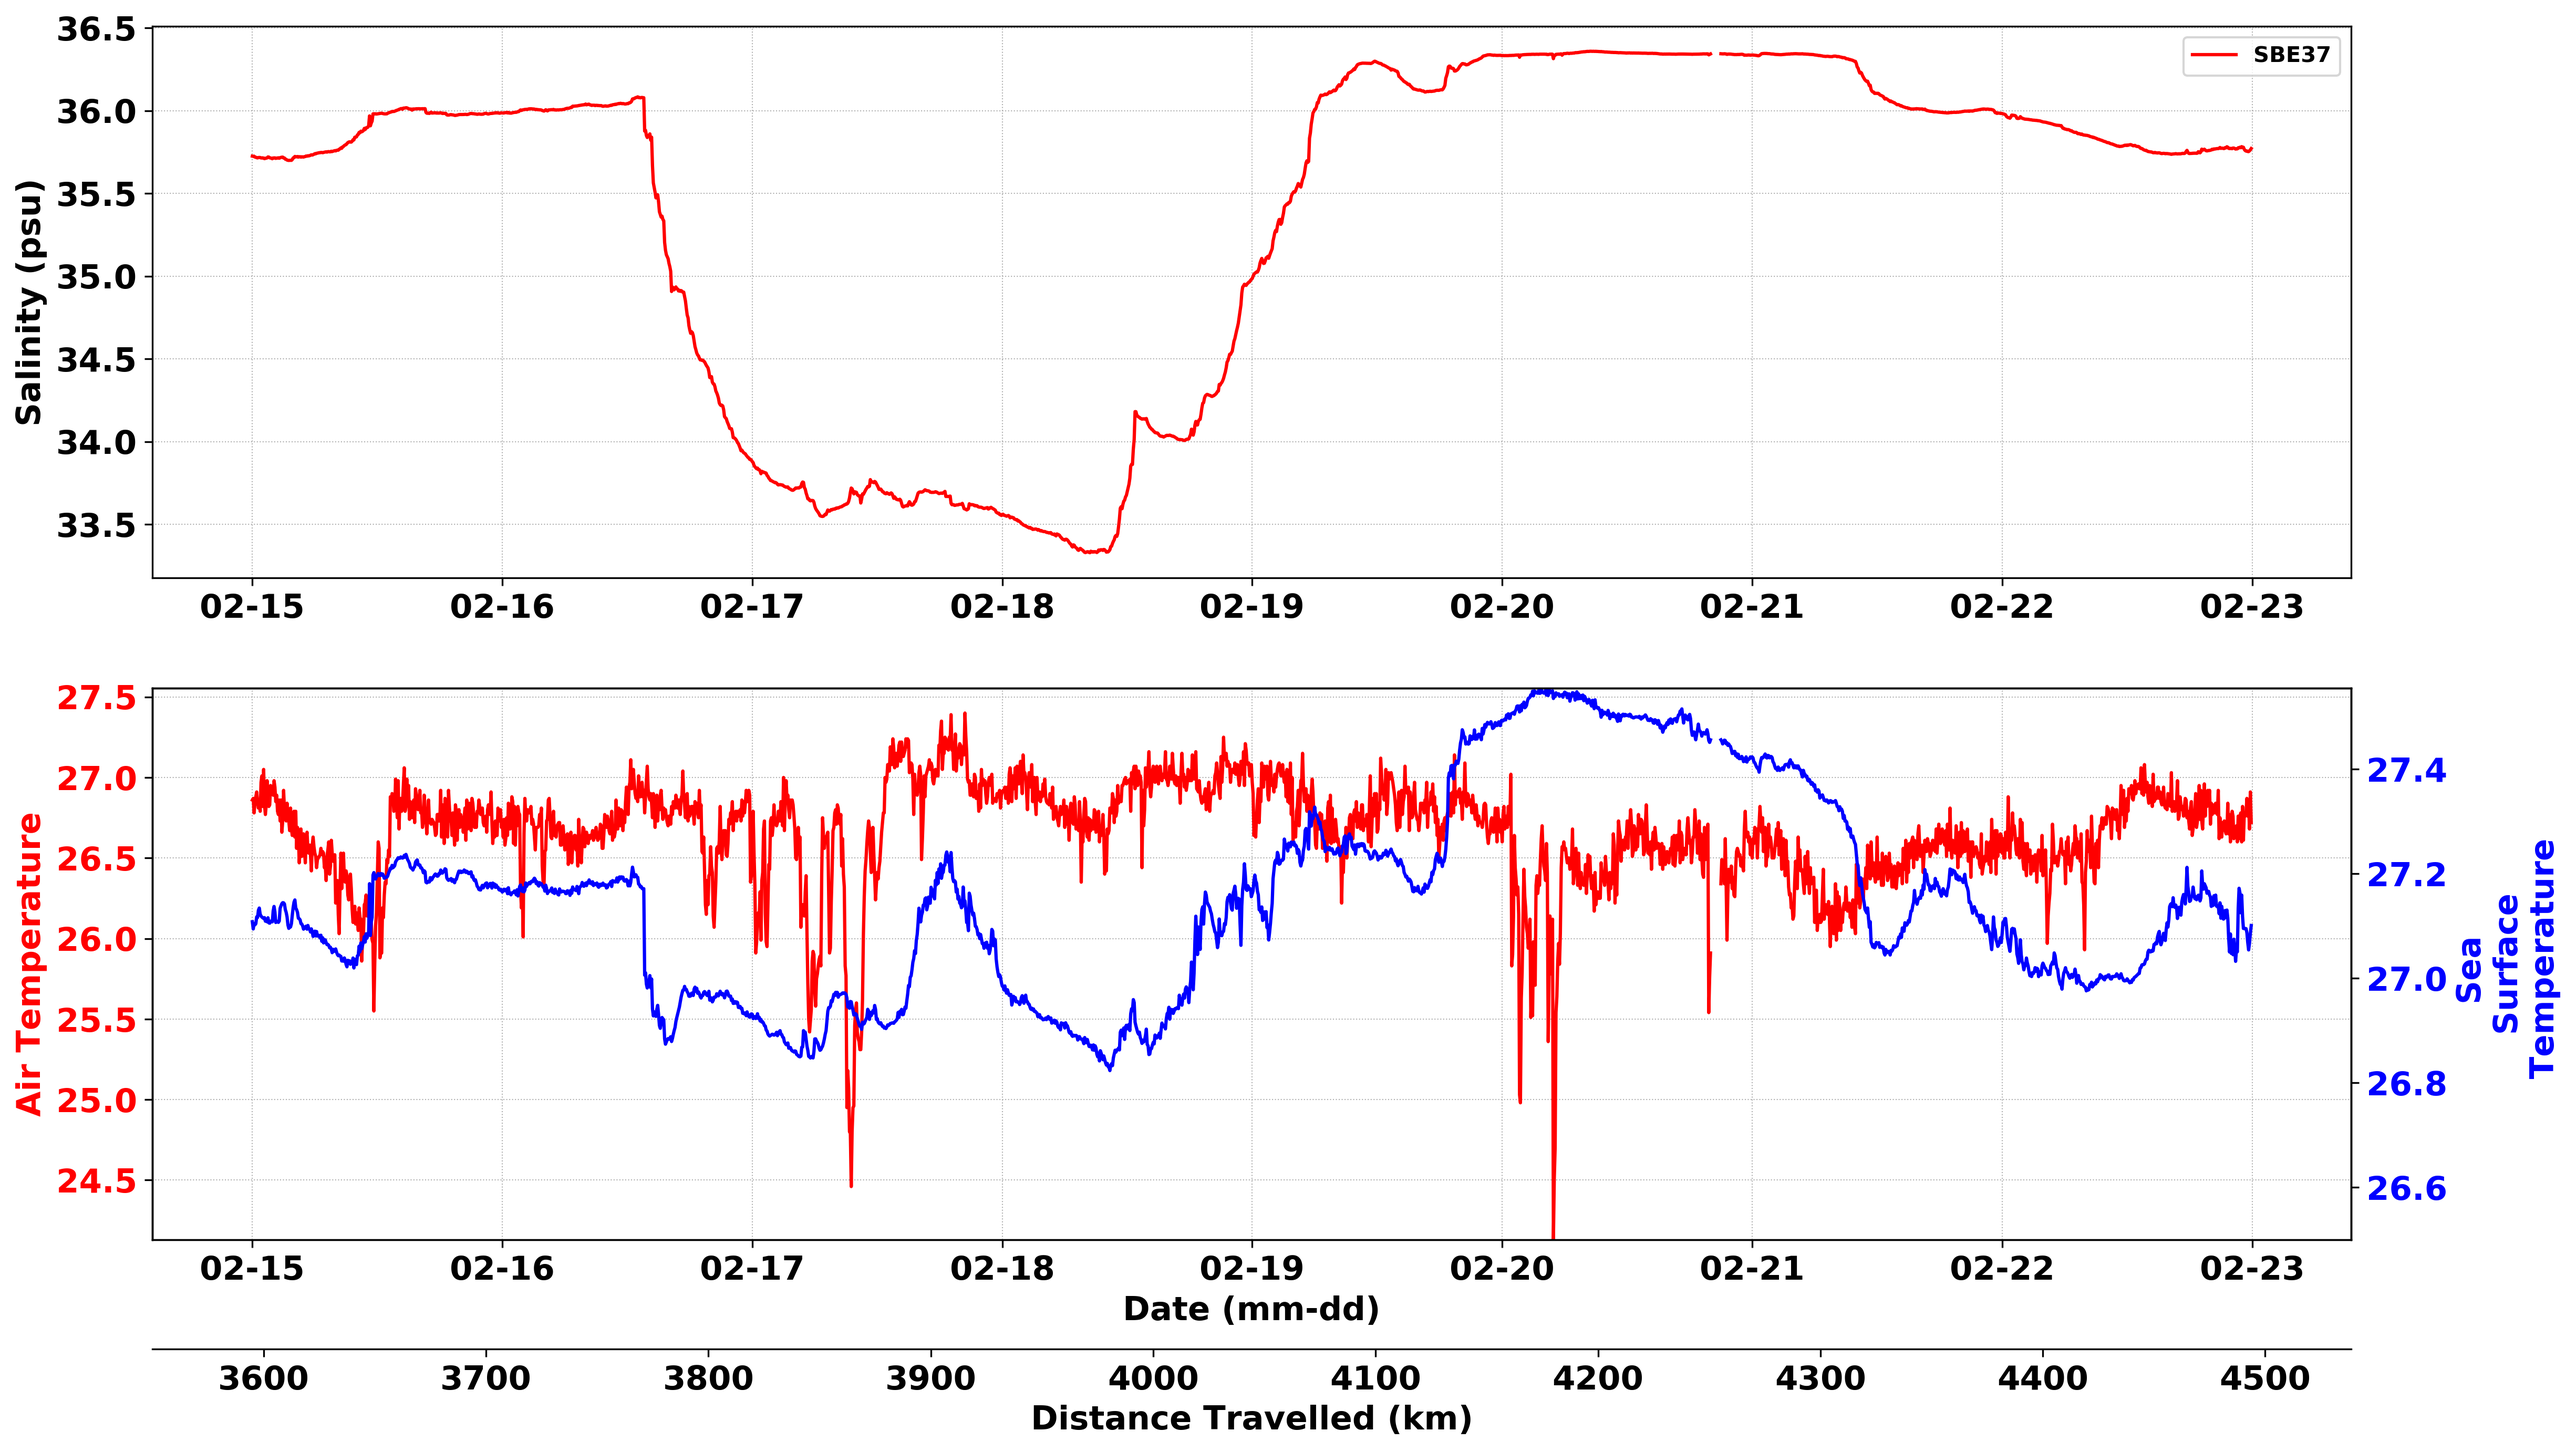
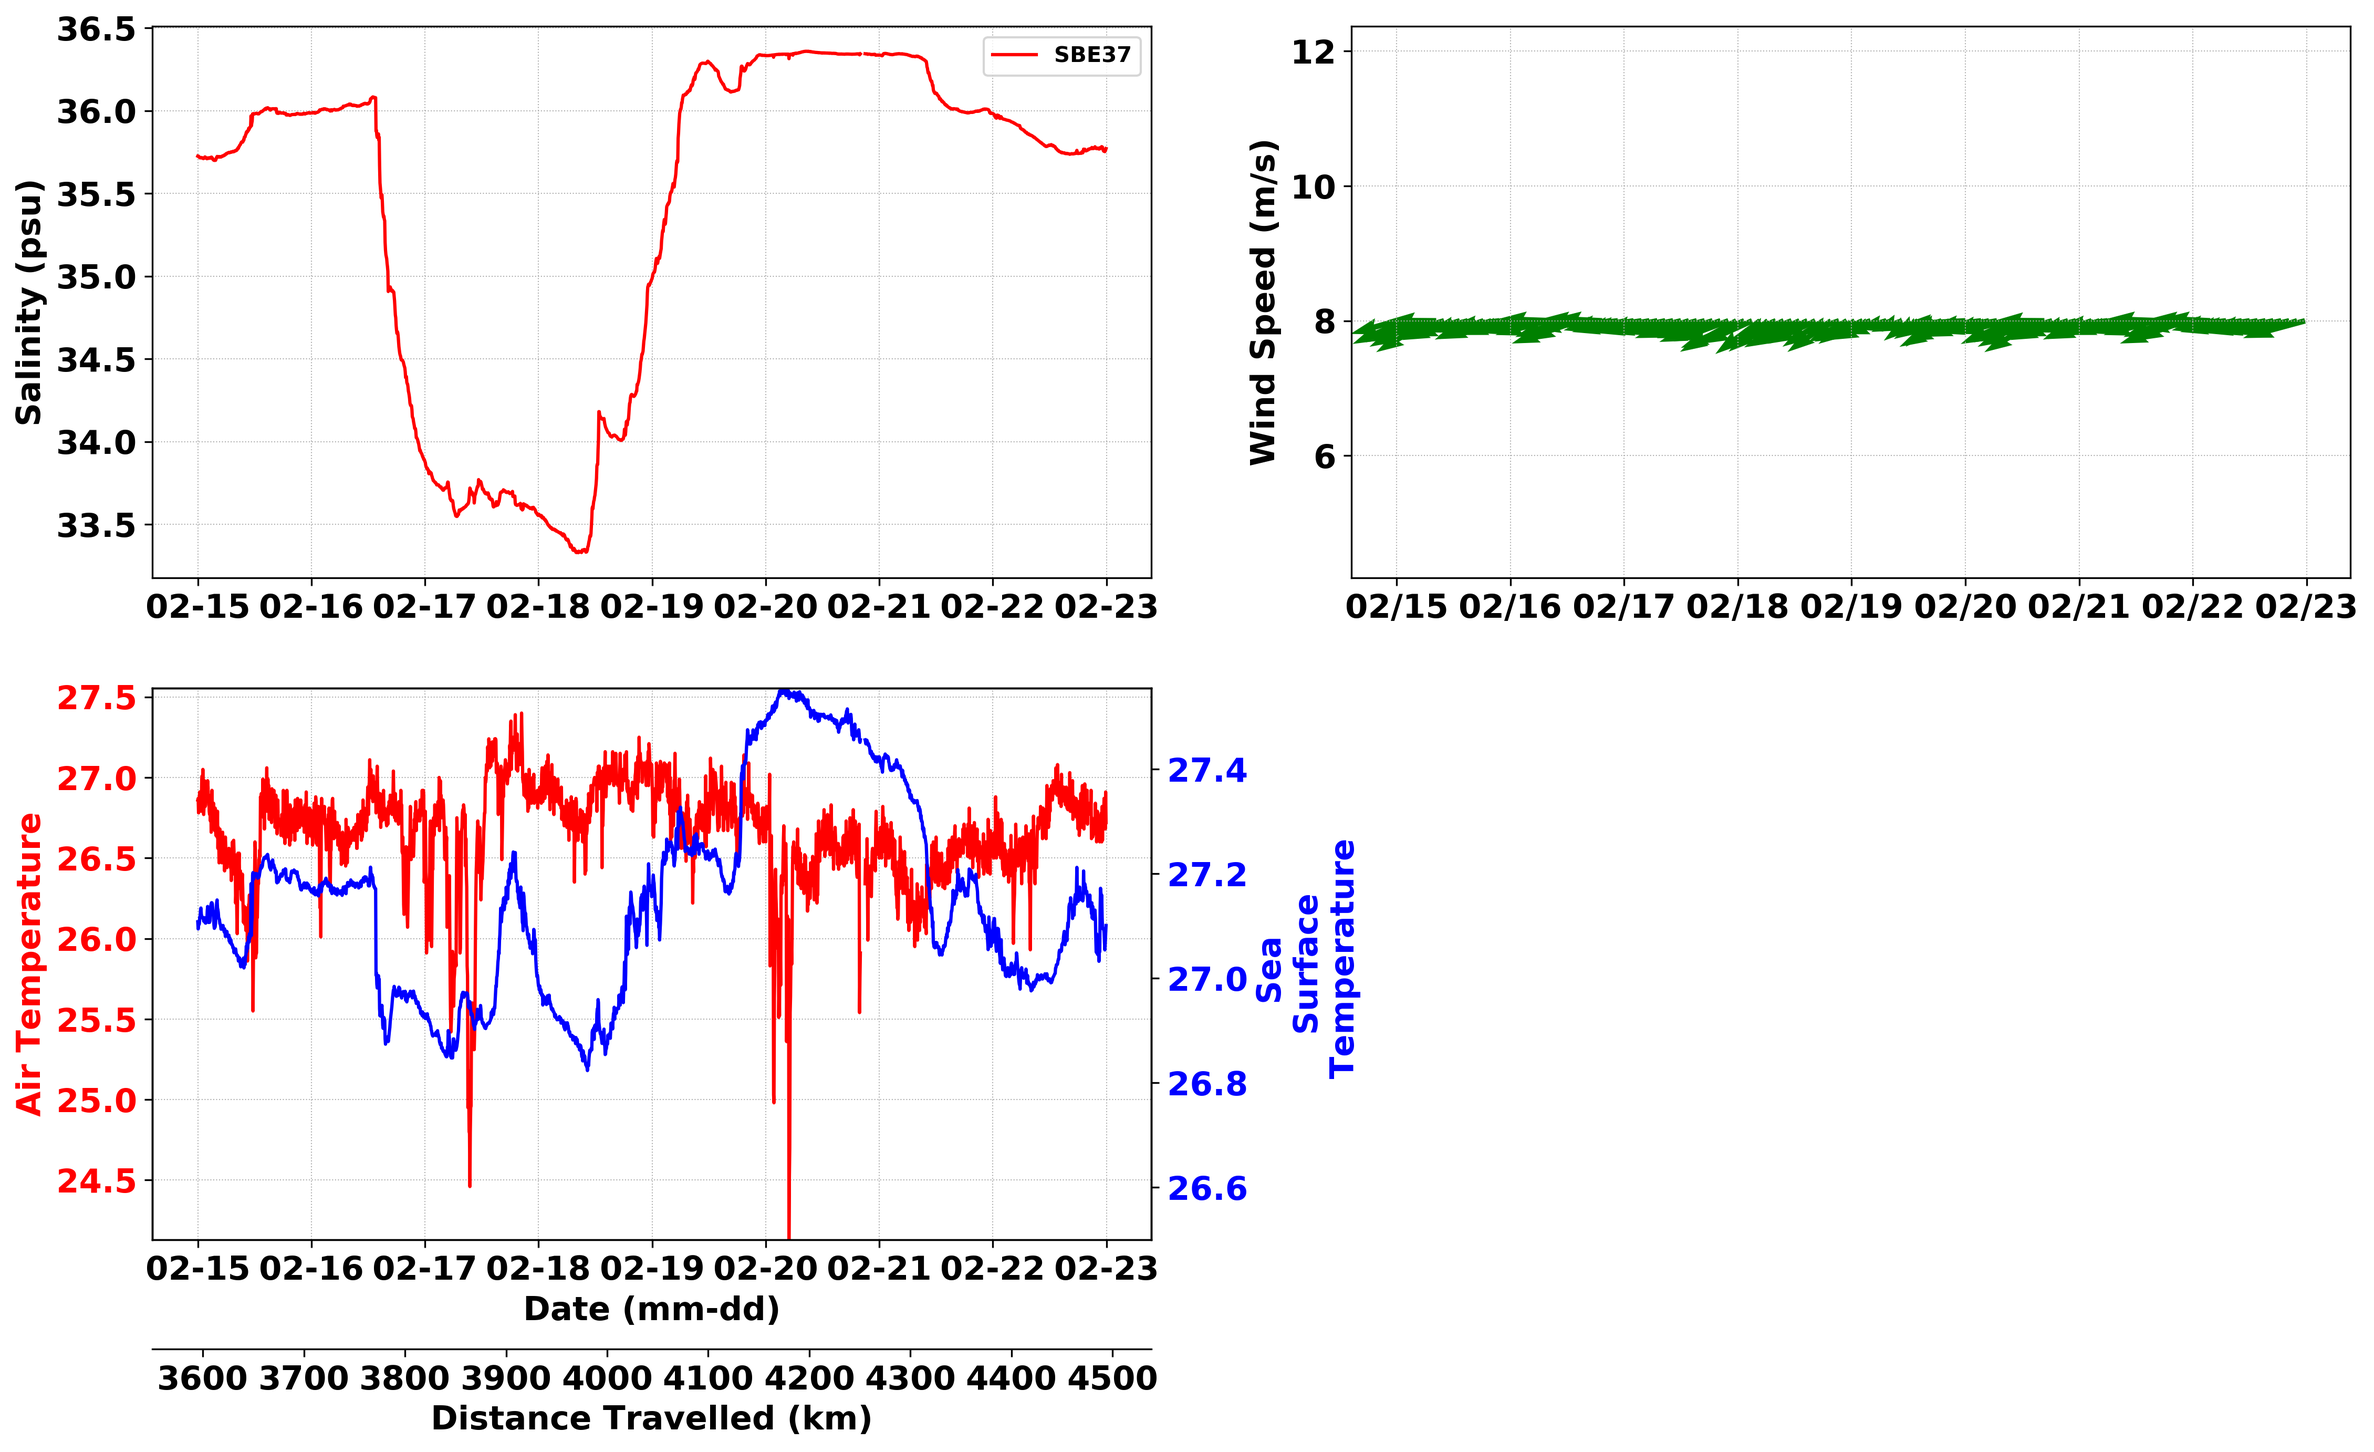
Adjusted Vis_all_Sal_Temp.py
Adjusted the script so it merges the air temp, sst, salinity current speed and wind speed plots into one panel,

diff --git a/2020_ATOMIC_Salinity/Vis_all_Sal_Temp.py b/2020_ATOMIC_Salinity/Vis_all_Sal_Temp.py
@@ -6,9 +6,11 @@ import matplotlib.pyplot as plt
 import matplotlib.dates as mdates
 import cartopy.crs as ccrs                   # import projections
 import cartopy.feature as cf                 # import features
+import cmocean.cm as cmo
 from glob import glob
 from matplotlib.dates import HourLocator, DateFormatter, DayLocator
 from matplotlib.ticker import FormatStrFormatter
+from mpl_toolkits.axes_grid1.inset_locator import inset_axes
 from math import sin, cos, sqrt, atan2, radians, pi
 
 def merge(list1, list2):
@@ -60,6 +62,8 @@ adcp_files = glob(adcp_dir+'combined*.nc')
 rss = xr.open_dataset(files[4], decode_times=False)
 jpl = xr.open_dataset(files[5], decode_times=False)
 sd = xr.open_dataset(adcp_files[2])
+sd['curr_spd'] = np.sqrt(sd.adcp_vel_east**2 + sd.adcp_vel_north**2)
+sd['wspd']=np.sqrt(sd.UWND_MEAN**2+sd.VWND_MEAN**2)
 
 
 #Swap Dimensions
@@ -87,12 +91,26 @@ sal_sbe37 = sd['SAL_SBE37_MEAN'].sel(time=slice('2020-02-15','2020-02-22'))
 air_temp = sd['TEMP_AIR_MEAN'].sel(time=slice('2020-02-15','2020-02-22'))
 temp_sbe37 = sd['TEMP_SBE37_MEAN'].sel(time=slice('2020-02-15','2020-02-22'))
 
-d_fmt = DateFormatter("%m/%d")   
-legend_properties = {'weight':'semibold','size':'10'}
+ws = sd['wspd'].sel(time=slice('2020-02-15','2020-02-22'))
+u_ws = sd['UWND_MEAN'].sel(time=slice('2020-02-15','2020-02-22'))
+v_ws = sd['VWND_MEAN'].sel(time=slice('2020-02-15','2020-02-22'))
+ws_lat = sd['latitude'].sel(time=slice('2020-02-15','2020-02-22'))
+ws_lon = sd['longitude'].sel(time=slice('2020-02-15','2020-02-22'))
 
-fig = plt.subplots(figsize=(18,10))
+cs = sd['curr_spd'].sel(time=slice('2020-02-15','2020-02-22'))
+u_cs = sd['adcp_vel_east'].sel(time=slice('2020-02-15','2020-02-22'))
+v_cs = sd['adcp_vel_north'].sel(time=slice('2020-02-15','2020-02-22'))
+cs_lat = sd['latitude'].sel(time=slice('2020-02-15','2020-02-22'))
+cs_lon = sd['longitude'].sel(time=slice('2020-02-15','2020-02-22'))
+
+d_fmt = DateFormatter("%m-%d")   
+legend_properties = {'weight':'semibold','size':'10'}
+plt.rcParams['font.weight']='semibold'
+
+fig = plt.subplots(figsize=(25,10))
+
 # Salinity Plot
-ax = plt.subplot(2,1,1)
+ax = plt.subplot(2,2,1)
 # plt.plot(sal_rbr.time.values, sal_rbr.values,color='b',label='RBR')
 plt.plot(sal_sbe37.time.values, sal_sbe37.values,color='r',label='SBE37')
 plt.plot(ss_times[96:126], rss.smap_SSS.values[96:126],color='b',label='RSS')
@@ -108,8 +126,8 @@ plt.grid(True, lw=0.5, ls=':')
 plt.xticks(fontweight='semibold')
 plt.yticks(fontweight='semibold')
 
-#Temperature Plot
-ax1 = plt.subplot(2,1,2)
+#SST and Air Temperature Plot
+ax1 = plt.subplot(2,2,3)
 plt.plot(air_temp.time.values, air_temp.values,color='r')
 ax1.xaxis.set_major_formatter(d_fmt)
 ax1.set_xlabel("Date (mm-dd)", fontsize=15, fontweight='semibold')
@@ -124,7 +142,7 @@ plt.xticks(fontweight='semibold')
 plt.yticks(fontweight='semibold')
 
 ax2 = ax1.twinx()
-ax2.set_ylabel("Sea \n Surface \n Temperature", color='b', fontsize=15, fontweight='semibold')
+ax2.set_ylabel("Sea Surface Temperature", color='b', fontsize=15, fontweight='semibold')
 plt.plot(temp_sbe37.time.values, temp_sbe37.values,color='b')
 ax2.tick_params(axis='y', labelcolor='b')
 #ax2.set_ylim(min(air_temp.values), max(temp_sbe37.values))
@@ -150,6 +168,62 @@ ax3.set_xlim(min(dist.values), max(dist.values))
 plt.tick_params(axis='both', which='major', labelsize=15)
 ax3.xaxis.set_major_formatter(FormatStrFormatter('%.0f'))
 plt.xticks(fontweight='semibold')
+
+#Wind Speed Vectors
+ax4 = plt.subplot(2,2,2)
+wx = ws.time.values
+wx = wx[::20]
+wy = np.ones(len(wx)) * 8
+dx, dy = u_ws[::30], v_ws[::30]
+m = np.sqrt(np.power(dx, 2) + np.power(dy, 2))
+q = plt.quiver(wx, wy, dx, dy, m/max(m), cmap=cmo.thermal, pivot='tail', width=0.0011)
+ax4.set_ylim(min(ws.values), max(ws.values))
+ax4.xaxis.set_major_formatter(d_fmt)
+ax4.set_ylabel("Wind Speed (m/s)", fontsize=15, fontweight='semibold')
+plt.tick_params(axis='both', which='major', labelsize=15)
+plt.grid(True, lw=0.5, ls=':')
+plt.xticks(fontweight='semibold')
+plt.yticks(fontweight='semibold')
+cbaxes = inset_axes(ax4, width='30%', height='3%', loc='upper right')
+plt.colorbar(cax=cbaxes, ticks=[0.5, 0.6, 0.7, 0.8, 0.9, 1.0], orientation='horizontal')
+
+al = [np.linspace(min(m/max(m)).values,max(m/max(m)).values,6)]
+print(al)
+
+#Current Speed Vectors
+ax5 = plt.subplot(2,2,4)
+cx = cs.T[0].time.values
+cx = cx[::20]
+cy = np.ones(len(cx)) * 0.40
+dx, dy = u_cs.T[0][::20], v_cs.T[0][::20]
+m1 = np.sqrt(np.power(dx, 2) + np.power(dy, 2))
+q = plt.quiver(cx, cy, dx, dy, m1/max(m1), cmap=cmo.thermal, pivot='tail', width=0.0011)
+ax5.set_ylim(min(cs.T[0].values), max(cs.T[0].values))
+ax5.xaxis.set_major_formatter(d_fmt)
+ax5.set_xlabel("Date (mm-dd)", fontsize=15, fontweight='semibold')
+ax5.set_ylabel("Current Speed (m/s)", fontsize=15, fontweight='semibold')
+plt.tick_params(axis='both', which='major', labelsize=15)
+plt.grid(True, lw=0.5, ls=':')
+plt.xticks(fontweight='semibold')
+plt.yticks(fontweight='semibold')
+cbaxes = inset_axes(ax5, width='30%', height='3%', loc='upper right')
+plt.colorbar(cax=cbaxes, ticks=[0.0, 0.25, 0.50, 0.75, 1.0], orientation='horizontal')
+
+ax6 = ax5.twiny()
+ax6.set_xticks(dist.values)
+newlabel = np.linspace(3600,4600,11)
+ax6.set_xticks(newlabel)
+ax6.set_xticklabels(newlabel)
+ax6.xaxis.set_ticks_position('bottom')
+ax6.xaxis.set_label_position('bottom')
+ax6.spines['bottom'].set_position(('outward', 50))
+ax6.set_xlabel('Distance Travelled (km)', fontsize=15, fontweight='semibold')
+ax6.xaxis.set_major_formatter(FormatStrFormatter('%.0f'))
+ax6.set_xlim(min(dist.values), max(dist.values))
+plt.tick_params(axis='both', which='major', labelsize=15)
+ax3.xaxis.set_major_formatter(FormatStrFormatter('%.0f'))
+plt.xticks(fontweight='semibold')
+
 
 plt.savefig(PNG +' Salinity_Temperature_Time_Series.png'
             , dpi=150, facecolor='w', edgecolor='w',

diff --git a/2020_ATOMIC_Salinity/Vis_Sal_Temp.py b/2020_ATOMIC_Salinity/Vis_Sal_Temp.py
@@ -55,6 +55,9 @@ adcp_files = glob(adcp_dir+'combined*.nc')
 
 sd = xr.open_dataset(adcp_files[2])
 # sd = sd.isel(trajectory=0).swap_dims({'obs': 'time'})
+sd['curr_spd'] = np.sqrt(sd.adcp_vel_east**2 + sd.adcp_vel_north**2)
+sd['wspd']=np.sqrt(sd.UWND_MEAN**2+sd.VWND_MEAN**2)
+
 
 # print(sd.latitude.values)
 val = merge(sd.latitude.values, sd.longitude.values)
@@ -62,6 +65,7 @@ distan = np.cumsum(calculate_distance(val)) + 1574.29
 times = pd.date_range("2020-01-31 00:00:00", freq="5T", periods=9216)
 sd['distance'] = xr.DataArray(distan, coords=[times], dims=["time"])
 
+#Salinity and Temperature Info
 dist = sd['distance'].sel(time=slice('2020-02-15','2020-02-22'))
 sal_rbr = sd['SAL_RBR_MEAN'].sel(time=slice('2020-02-15','2020-02-22'))
 sal_sbe37 = sd['SAL_SBE37_MEAN'].sel(time=slice('2020-02-15','2020-02-22'))
@@ -70,8 +74,21 @@ temp_sbe37 = sd['TEMP_SBE37_MEAN'].sel(time=slice('2020-02-15','2020-02-22'))
 d_fmt = DateFormatter("%m/%d")   
 legend_properties = {'weight':'semibold','size':'10'}
 
+#Current and Wind Speed Info
+cs = sd['curr_spd'].sel(time=slice('2020-02-15','2020-02-22'))
+u_cs = sd['adcp_vel_east'].sel(time=slice('2020-02-15','2020-02-22'))
+v_cs = sd['adcp_vel_north'].sel(time=slice('2020-02-15','2020-02-22'))
+cs_lat = sd['latitude'].sel(time=slice('2020-02-15','2020-02-22'))
+cs_lon = sd['longitude'].sel(time=slice('2020-02-15','2020-02-22'))
+
+ws = sd['wspd'].sel(time=slice('2020-02-15','2020-02-22'))
+u_ws = sd['UWND_MEAN'].sel(time=slice('2020-02-15','2020-02-22'))
+v_ws = sd['VWND_MEAN'].sel(time=slice('2020-02-15','2020-02-22'))
+ws_lat = sd['latitude'].sel(time=slice('2020-02-15','2020-02-22'))
+ws_lon = sd['longitude'].sel(time=slice('2020-02-15','2020-02-22'))
+
 fig = plt.subplots(figsize=(18,10))
-ax = plt.subplot(2,1,1)
+ax = plt.subplot(2,2,1)
 # plt.plot(sal_rbr.time.values, sal_rbr.values,color='b',label='RBR')
 plt.plot(sal_sbe37.time.values, sal_sbe37.values,color='r',label='SBE37')
 ax.xaxis.set_major_formatter(d_fmt)
@@ -84,7 +101,7 @@ plt.grid(True, lw=0.5, ls=':')
 plt.xticks(fontweight='semibold')
 plt.yticks(fontweight='semibold')
 
-ax1 = plt.subplot(2,1,2)
+ax1 = plt.subplot(2,2,3)
 plt.plot(air_temp.time.values, air_temp.values,color='r')
 ax1.xaxis.set_major_formatter(d_fmt)
 ax1.set_xlabel("Date (mm-dd)", fontsize=15, fontweight='semibold')
@@ -126,6 +143,27 @@ ax3.set_xlim(min(dist.values), max(dist.values))
 plt.tick_params(axis='both', which='major', labelsize=15)
 ax3.xaxis.set_major_formatter(FormatStrFormatter('%.0f'))
 plt.xticks(fontweight='semibold')
+
+ax4 = plt.subplot(2,2,2)
+wx = ws.time.values
+wx = wx[::20]
+wy = np.ones(len(wx)) * 8
+dx, dy = u_ws[::30], v_ws[::30]
+plt.quiver(wx, wy, dx, dy, pivot='tail', color='g',linewidths=0.005)
+# plt.barbs(wx, wy, dx, dy, barbcolor=['b'])
+# plt.quiver(ws.time.values, ws.values, u_ws.values, v_ws.values, 
+#            pivot='tail', color='g',linewidths=0.005)
+#plt.barbs(ws.time.values, ws.values*1.944,u_ws.values,v_ws.values, barbcolor=['b'])
+#plt.plot(sal_sbe37.time.values, sal_sbe37.values,color='r',label='SBE37')
+ax4.set_ylim(min(ws.values), max(ws.values))
+ax4.xaxis.set_major_formatter(d_fmt)
+ax4.set_ylabel("Wind Speed (m/s)", fontsize=15, fontweight='semibold')
+plt.tick_params(axis='both', which='major', labelsize=15)
+plt.grid(True, lw=0.5, ls=':')
+plt.xticks(fontweight='semibold')
+plt.yticks(fontweight='semibold')
+
+
 
 plt.savefig(PNG +'sal_temp_vs_datetime_distance_travelled_subplot_sst_min.png', 
             dpi=300, facecolor='w', edgecolor='w',
